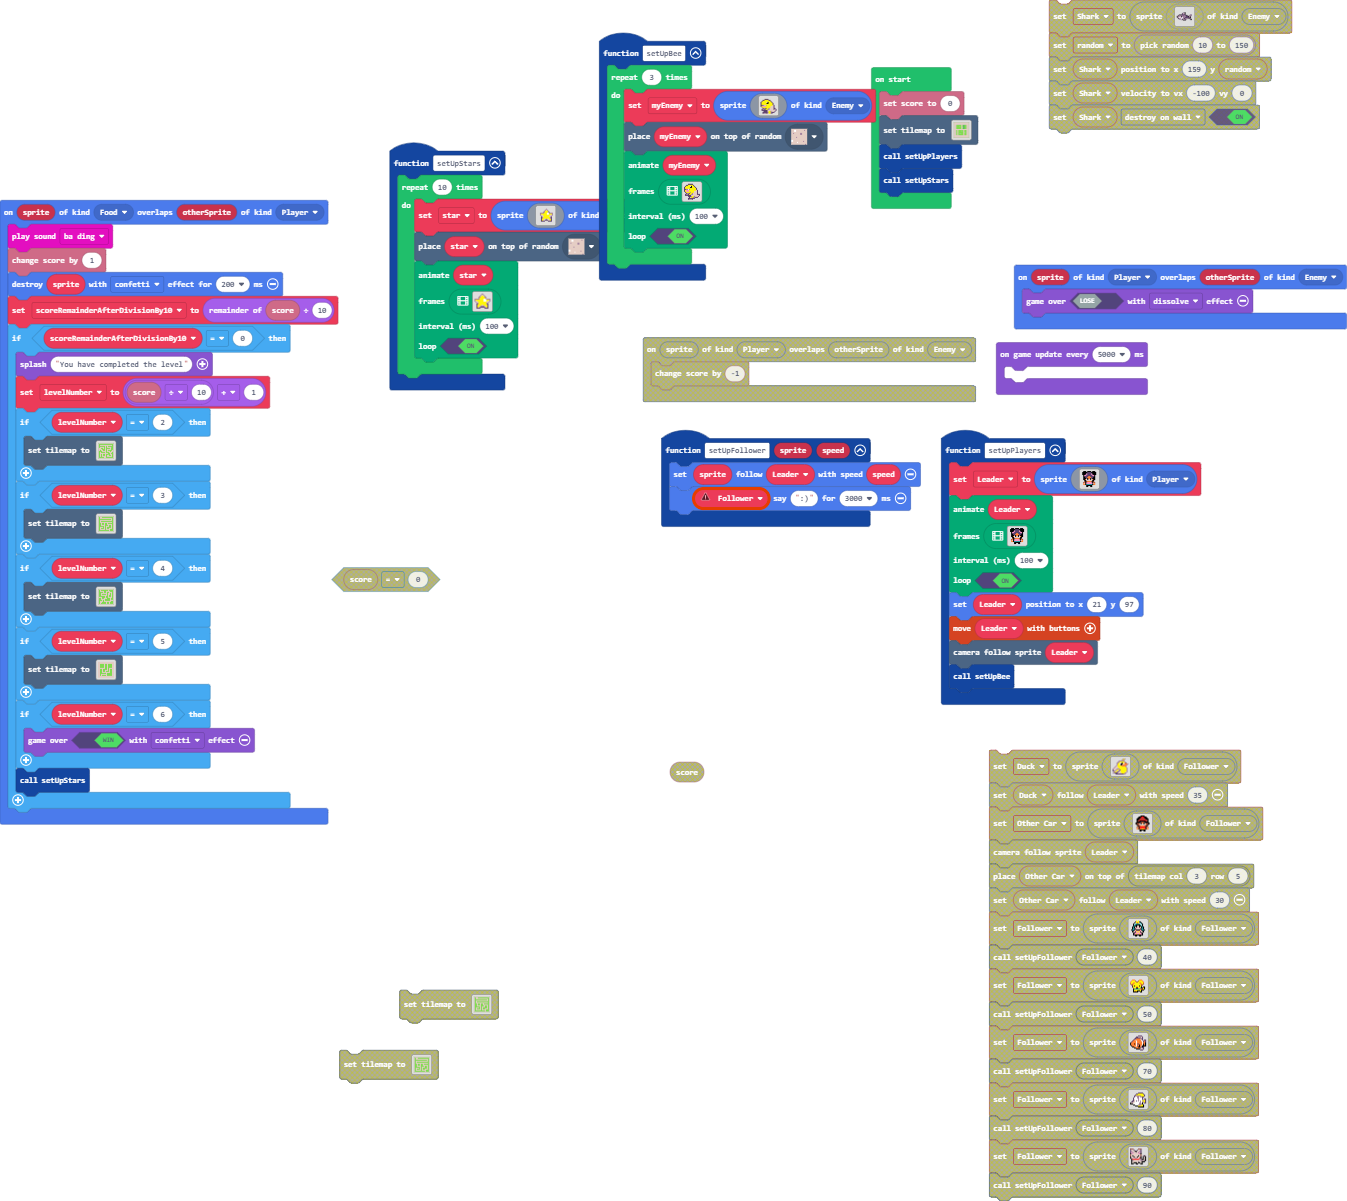
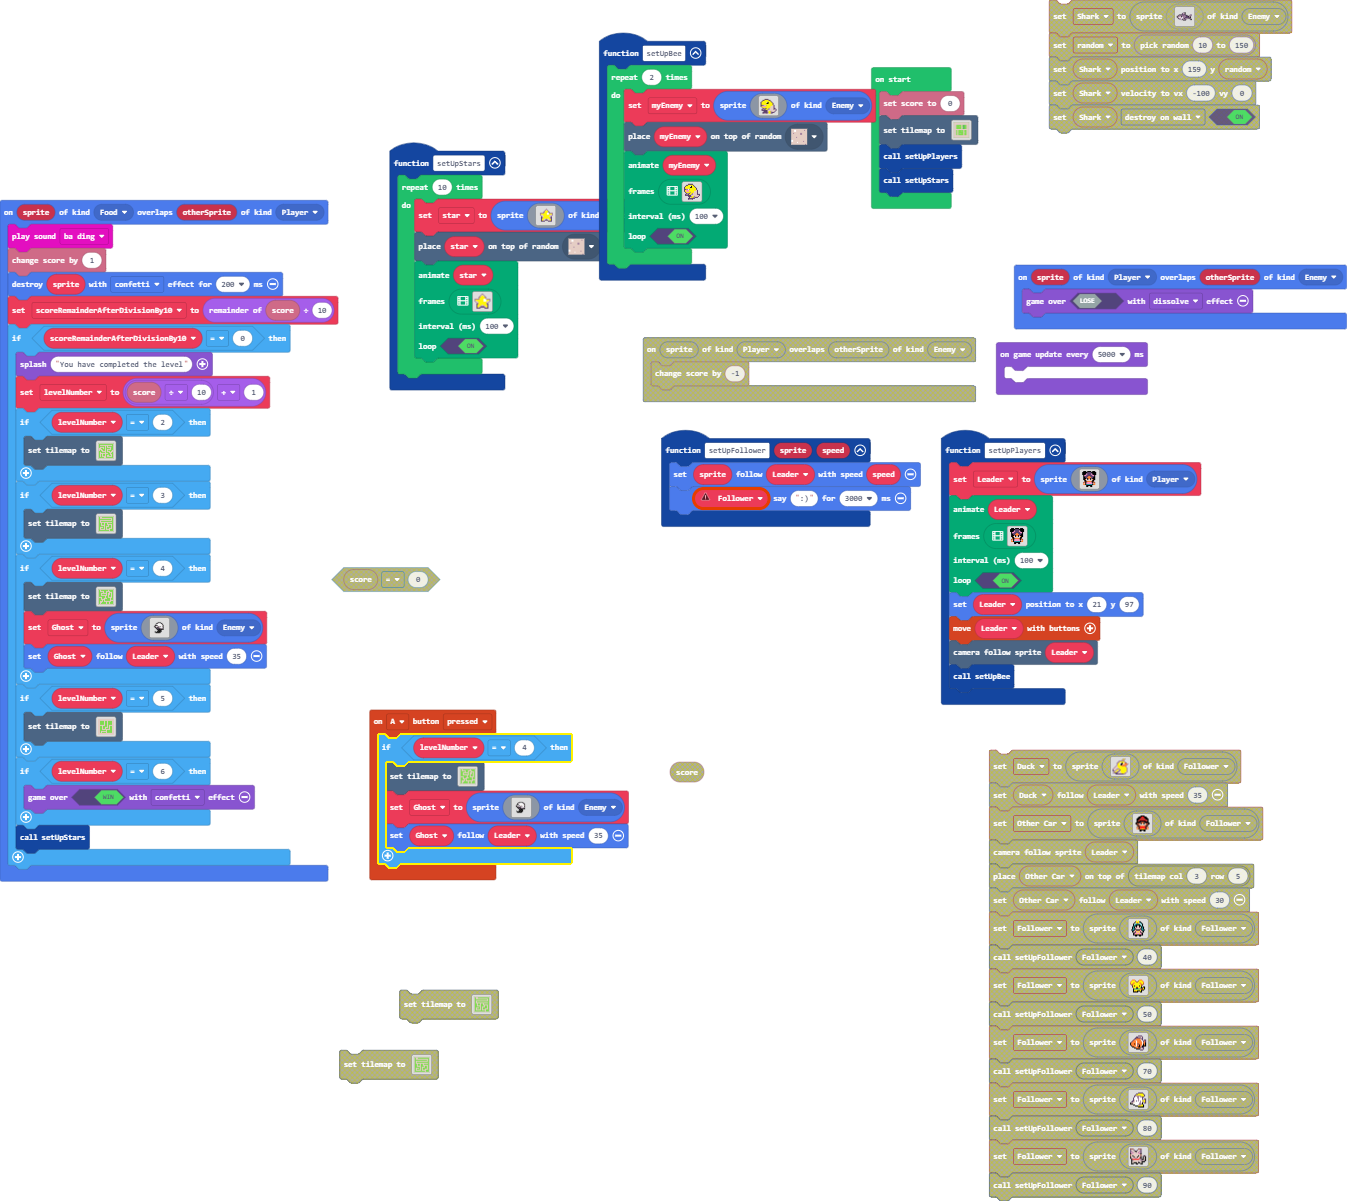
I have added dinosaurs and ghosts.

Changed region(s): [[0.0, 0.4929, 0.4677, 0.7394]]

diff --git a/main.ts b/main.ts
@@ -2,7 +2,7 @@ namespace SpriteKind {
     export const Follower = SpriteKind.create()
 }
 function setUpBee () {
-    for (let index = 0; index < 3; index++) {
+    for (let index = 0; index < 2; index++) {
         myEnemy = sprites.create(img`
             . . . . . . . . . . . . . . . . 
             . . . . c c c c . . . . . . . . 
@@ -64,6 +64,38 @@ function setUpBee () {
         )
     }
 }
+controller.A.onEvent(ControllerButtonEvent.Pressed, function () {
+    if (levelNumber == 4) {
+        tiles.setTilemap(tilemap`level23`)
+        Ghost = sprites.create(img`
+            ........................
+            ........................
+            ........................
+            ........................
+            .........fffff..........
+            .......ffb1111ff........
+            ......fb1111111bf.......
+            ......f111111111f.......
+            .....ffff1111111df......
+            ....fb111c1dd111df......
+            ....ffb1b1fdcf11bf......
+            .....ffbfbfb11111f......
+            ......ffffcfdb1b1f......
+            .......fcccfcfbfbf......
+            ........ffffffffff......
+            .........ffffff.........
+            .........ffffff.........
+            .....f..fffffff.........
+            .....fffffffff..........
+            ......fffffff...........
+            ........................
+            ........................
+            ........................
+            ........................
+            `, SpriteKind.Enemy)
+        Ghost.follow(Leader, 35)
+    }
+})
 function setUpStars () {
     for (let index = 0; index < 10; index++) {
         star = sprites.create(img`
@@ -177,6 +209,33 @@ sprites.onOverlap(SpriteKind.Food, SpriteKind.Player, function (sprite, otherSpr
         }
         if (levelNumber == 4) {
             tiles.setTilemap(tilemap`level23`)
+            Ghost = sprites.create(img`
+                ........................
+                ........................
+                ........................
+                ........................
+                .........fffff..........
+                .......ffb1111ff........
+                ......fb1111111bf.......
+                ......f111111111f.......
+                .....ffff1111111df......
+                ....fb111c1dd111df......
+                ....ffb1b1fdcf11bf......
+                .....ffbfbfb11111f......
+                ......ffffcfdb1b1f......
+                .......fcccfcfbfbf......
+                ........ffffffffff......
+                .........ffffff.........
+                .........ffffff.........
+                .....f..fffffff.........
+                .....fffffffff..........
+                ......fffffff...........
+                ........................
+                ........................
+                ........................
+                ........................
+                `, SpriteKind.Enemy)
+            Ghost.follow(Leader, 35)
         }
         if (levelNumber == 5) {
             tiles.setTilemap(tilemap`level24`)
@@ -276,10 +335,11 @@ function setUpPlayers () {
 sprites.onOverlap(SpriteKind.Player, SpriteKind.Enemy, function (sprite, otherSprite) {
     game.over(false, effects.dissolve)
 })
-let Leader: Sprite = null
-let levelNumber = 0
 let scoreRemainderAfterDivisionBy10 = 0
 let star: Sprite = null
+let Leader: Sprite = null
+let Ghost: Sprite = null
+let levelNumber = 0
 let myEnemy: Sprite = null
 info.setScore(0)
 tiles.setTilemap(tilemap`level2`)

diff --git a/tilemap.g.ts b/tilemap.g.ts
@@ -577,6 +577,25 @@ namespace myTiles {
 . . . . . . . . . . . . . . . . 
 . . . . . . . . . . . . . . . . 
 `, [myTiles.transparency16,sprites.castle.tileGrass1,sprites.castle.tilePath5], TileScale.Sixteen);
+            case "level25":
+            case "level25":return tiles.createTilemap(hex`1000100000000000000000000000000000000000000000000000000000000000000000000000000000000000000000000000000000000000000000000000000000000000000000000000000000000000000000000000000000000000000000000000000000000000000000000000000000000000000000000000000000000000000000000000000000000000000000000000000000000000000000000000000000000000000000000000000000000000000000000000000000000000000000000000000000000000000000000000000000000000000000000000000000000000000000000000000000000000000000000000000000000000000000000000000000000000`, img`
+. . . . . . . . . . . . . . . . 
+. . . . . . . . . . . . . . . . 
+. . . . . . . . . . . . . . . . 
+. . . . . . . . . . . . . . . . 
+. . . . . . . . . . . . . . . . 
+. . . . . . . . . . . . . . . . 
+. . . . . . . . . . . . . . . . 
+. . . . . . . . . . . . . . . . 
+. . . . . . . . . . . . . . . . 
+. . . . . . . . . . . . . . . . 
+. . . . . . . . . . . . . . . . 
+. . . . . . . . . . . . . . . . 
+. . . . . . . . . . . . . . . . 
+. . . . . . . . . . . . . . . . 
+. . . . . . . . . . . . . . . . 
+. . . . . . . . . . . . . . . . 
+`, [myTiles.transparency16], TileScale.Sixteen);
         }
         return null;
     })
